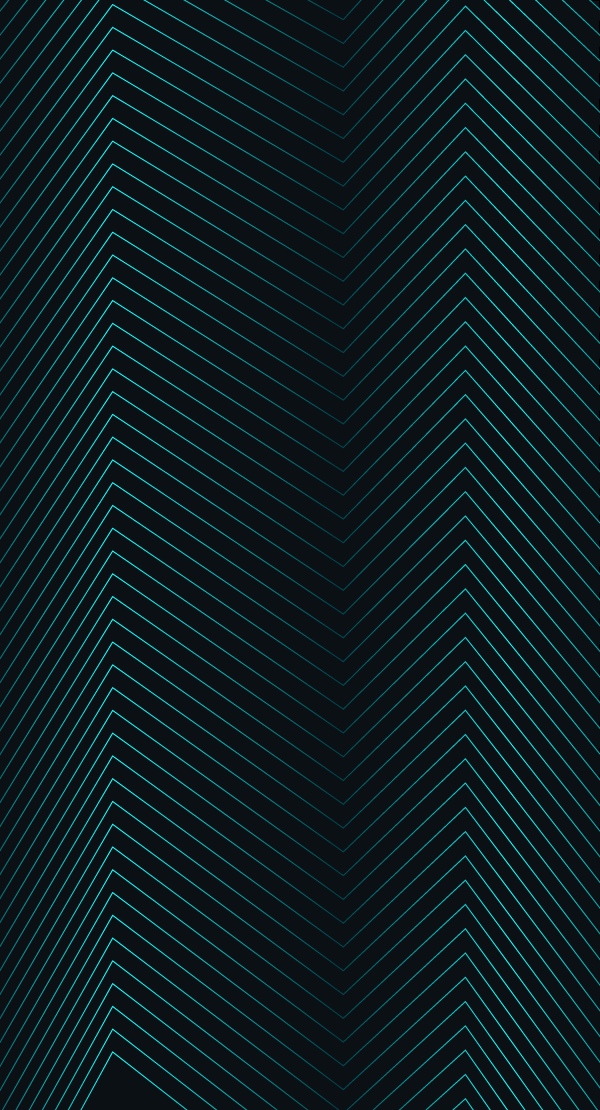
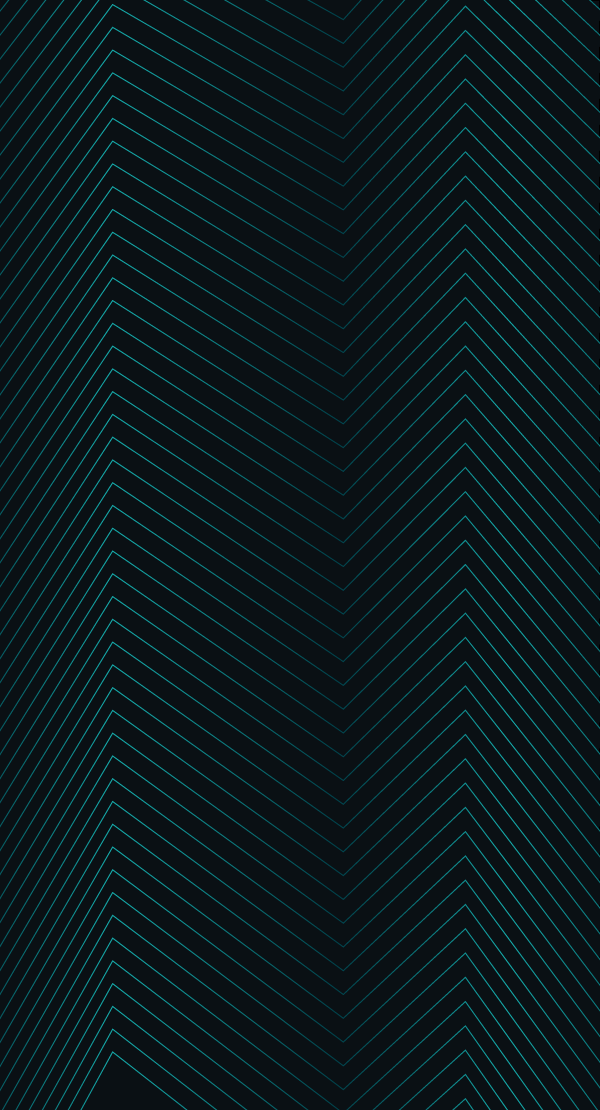
higher contrast bg img bio mobile

diff --git a/styles.css b/styles.css
@@ -1019,7 +1019,7 @@ constrain image size to anchor */ #work-image-home-one img {
 	min-width: 100%;
 	max-width: 100%;
 	padding-top: 24px;
-	background-image: url('https://i.ibb.co/5xfjTzR/bio-abstract-background-mobile.png');
+	background-image: url('https://i.ibb.co/dkHqzLJ/bio-abstract-background-mobile.png');
 	background-position: center;
 	background-size: cover;
 }
@@ -1094,7 +1094,7 @@ constrain image size to anchor */ #work-image-home-one img {
 /* ABOUT ME MEDIA QUERIES */
 @media (min-width: 600px) {
 	#body-about-me {
-		background-image: url('https://i.ibb.co/sKJW6Yb/bio-abstract-background-tablet.png');
+		background-image: url('images/home-abstract-background-tablet-02.png');
 		background-position: center;
 		background-size: cover;
 	}
